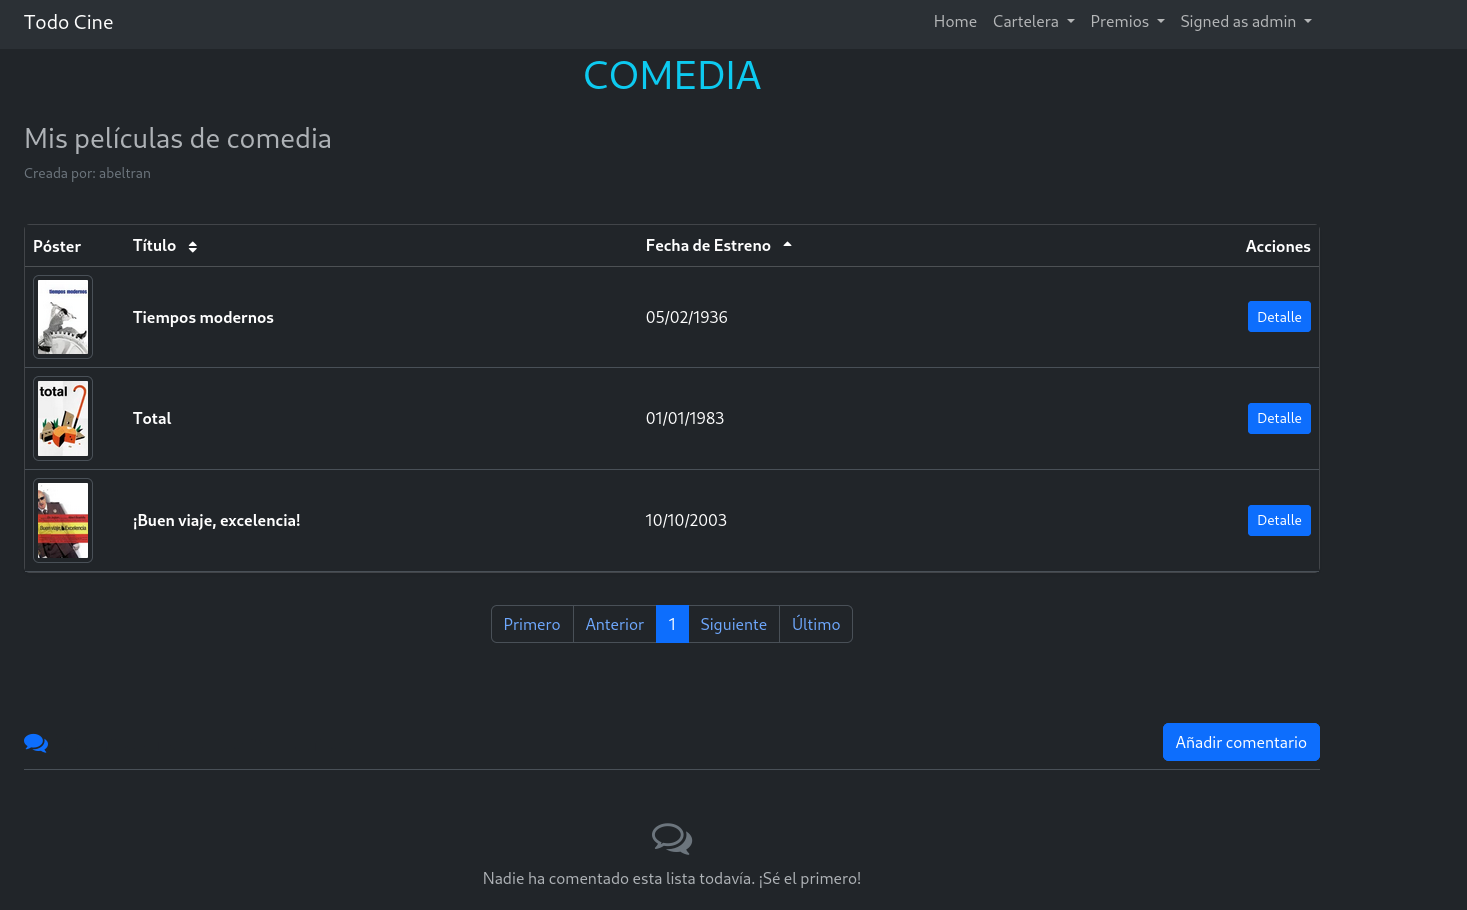
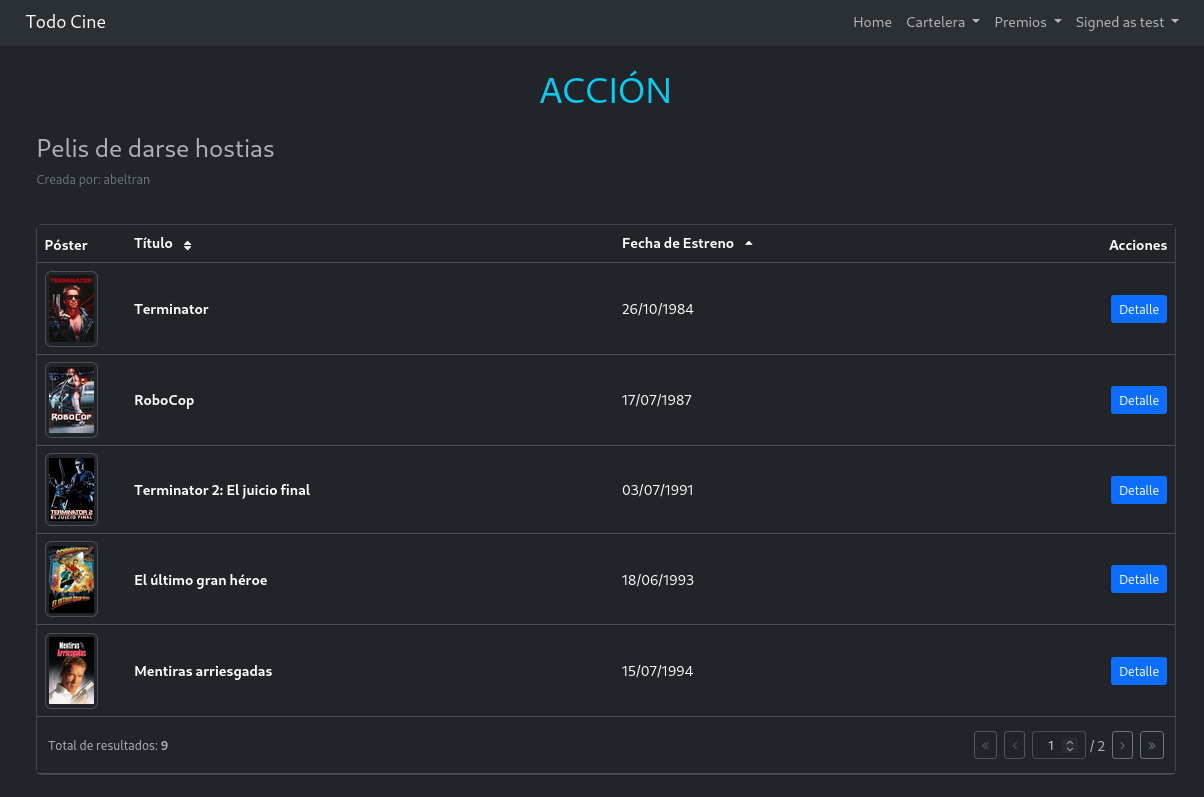
refactored

diff --git a/src/app/features/listas/lista-detail/table/lista-table.component.html b/src/app/features/listas/lista-detail/table/lista-table.component.html
@@ -51,16 +51,66 @@
                     </tr>
                 }
             </tbody>
+
+            <!-- PIE DE TABLA CON EL PAGINADOR INTEGRADO -->
+            @if (moviesList.total_pages > 0) {
+                <tfoot class="table-dark">
+                    <tr>
+                        <td colspan="4">
+                            <div class="d-flex justify-content-between align-items-center py-2 px-1">
+                                <span class="text-muted small">
+                                    Total de resultados: <strong>{{ moviesList.total_results }}</strong>
+                                </span>
+                                
+                                <div class="d-flex align-items-center gap-2">
+                                    <!-- Botón Primera Página -->
+                                    <button class="btn btn-sm btn-outline-secondary" 
+                                            [disabled]="moviesList.page === 1" 
+                                            (click)="loadMoviesList(ordenar(), 1)"
+                                            title="Primera página">
+                                        <i class="fa fa-angle-double-left"></i>
+                                    </button>
+
+                                    <!-- Botón Página Anterior -->
+                                    <button class="btn btn-sm btn-outline-secondary" 
+                                            [disabled]="moviesList.page === 1" 
+                                            (click)="loadMoviesList(ordenar(), moviesList.page - 1)"
+                                            title="Página anterior">
+                                        <i class="fa fa-angle-left"></i>
+                                    </button>
+
+                                    <!-- Input de página y barra divisoria -->
+                                    <div class="d-flex align-items-center gap-1">
+                                        <input type="number" 
+                                               class="form-control form-control-sm text-center" 
+                                               style="width: 60px;"
+                                               [value]="moviesList.page"
+                                               (keyup.enter)="onPageInputChange($any($event.target).value, moviesList.total_pages)"
+                                               (blur)="onPageInputChange($any($event.target).value, moviesList.total_pages)" />
+                                        <span class="text-muted">/ {{ moviesList.total_pages }}</span>
+                                    </div>
+
+                                    <!-- Botón Página Siguiente -->
+                                    <button class="btn btn-sm btn-outline-secondary" 
+                                            [disabled]="moviesList.page === moviesList.total_pages" 
+                                            (click)="loadMoviesList(ordenar(), moviesList.page + 1)"
+                                            title="Página siguiente">
+                                        <i class="fa fa-angle-right"></i>
+                                    </button>
+
+                                    <!-- Botón Última Página -->
+                                    <button class="btn btn-sm btn-outline-secondary" 
+                                            [disabled]="moviesList.page === moviesList.total_pages" 
+                                            (click)="loadMoviesList(ordenar(), moviesList.total_pages)"
+                                            title="Última página">
+                                        <i class="fa fa-angle-double-right"></i>
+                                    </button>
+                                </div>
+                            </div>
+                        </td>
+                    </tr>
+                </tfoot>
+            }
         </table>
     </div>
 </div>
-
-@if (moviesList.total_pages > 0) {
-    <div class="mt-3">
-        <app-paginator
-            [activePage]="moviesList.page"
-            [totalPages]="moviesList.total_pages"
-            (pageChange)="loadMoviesList(ordenar(), $event)">
-        </app-paginator>
-    </div>
-}

diff --git a/src/app/features/listas/lista-detail/table/lista-table.component.ts b/src/app/features/listas/lista-detail/table/lista-table.component.ts
@@ -92,4 +92,23 @@ export class ListaTableComponent {
   setErrorMessage(msg: string) {
       this.errorMessage.emit(msg);
   }
+
+  onPageInputChange(value: string, totalPages: number) {
+    let page = parseInt(value, 10);
+    
+    // Si no es un número válido, no hacemos nada
+    if (isNaN(page)) return;
+
+    // Validación de límites solicitada
+    if (page < 1) {
+      page = 1;
+    } else if (page > totalPages) {
+      page = totalPages;
+    }
+
+    // Solo recargamos si la página resultante es distinta a la actual
+    if (page !== this.moviesList.page) {
+      this.loadMoviesList(this.ordenar(), page);
+    }
+  }
 }